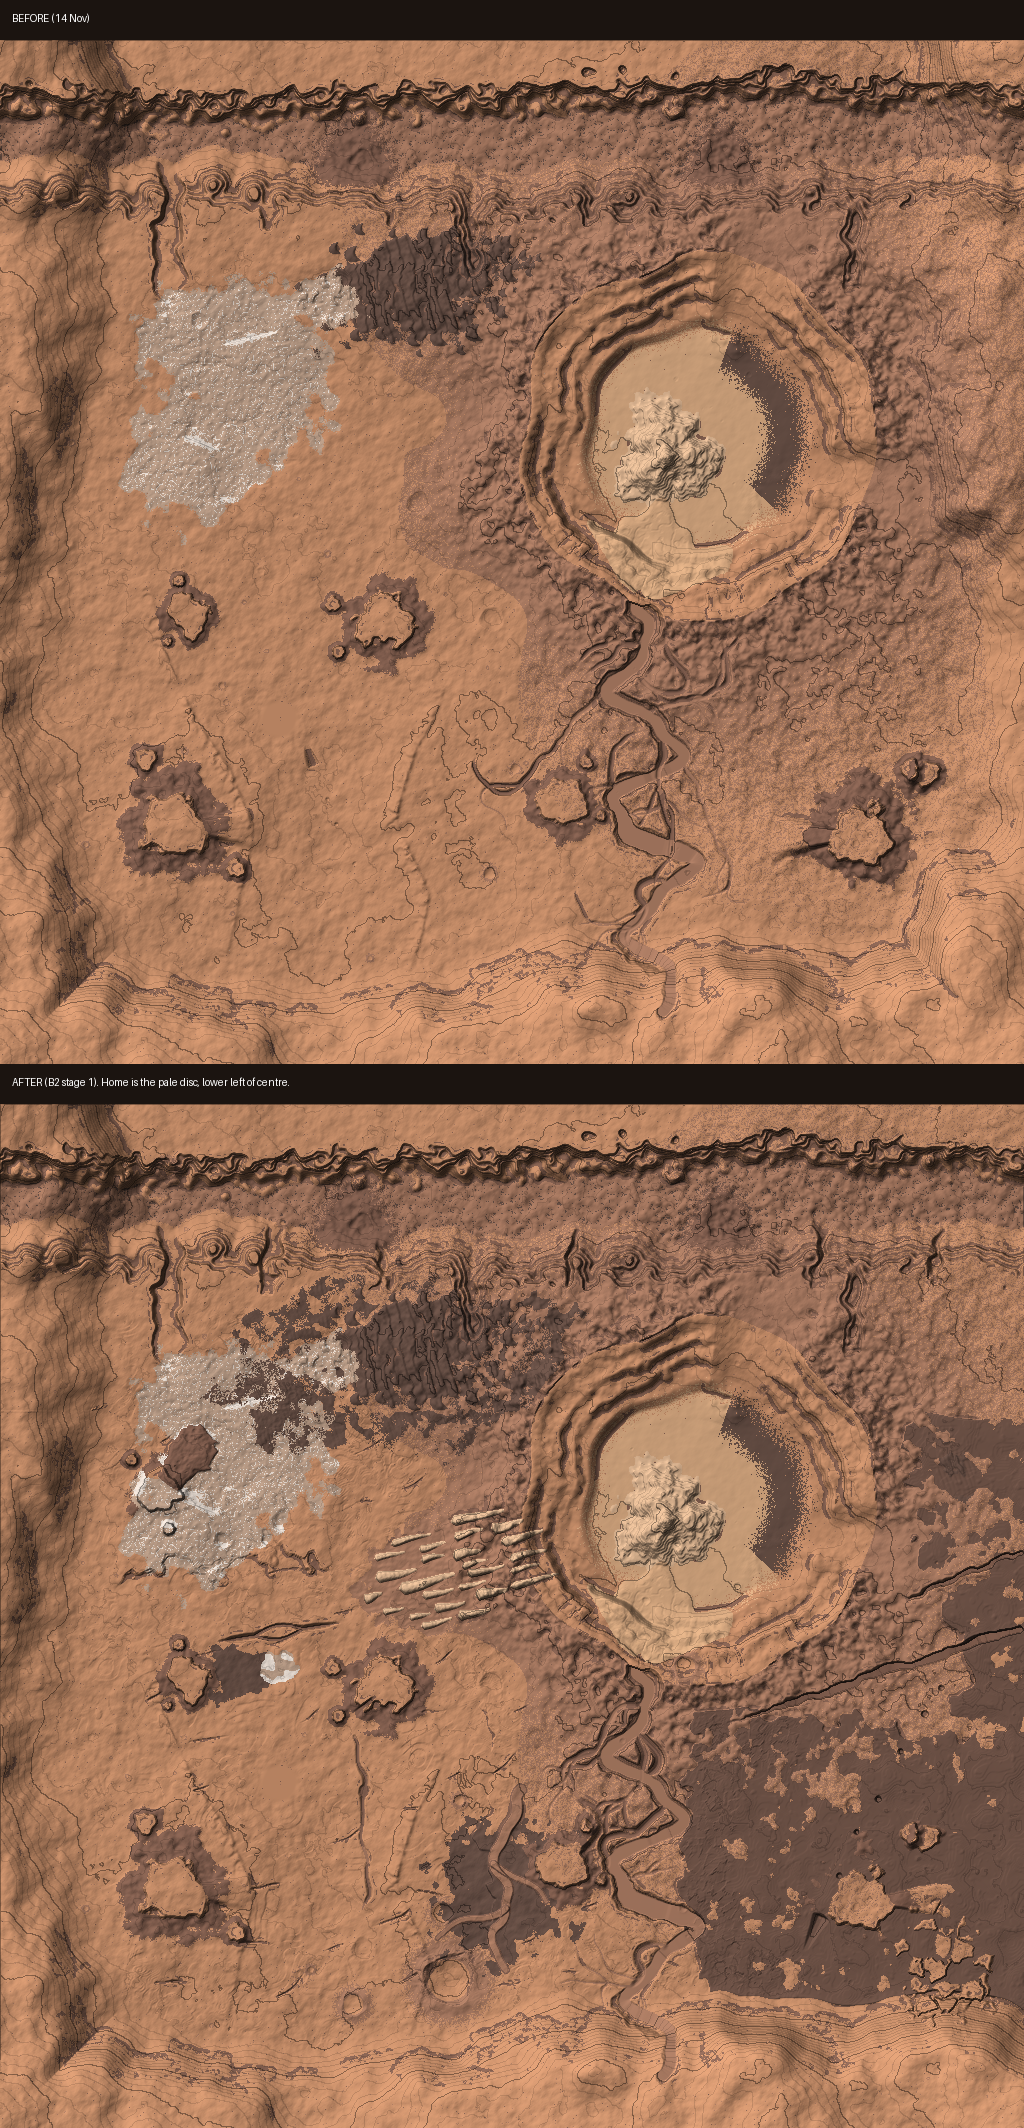
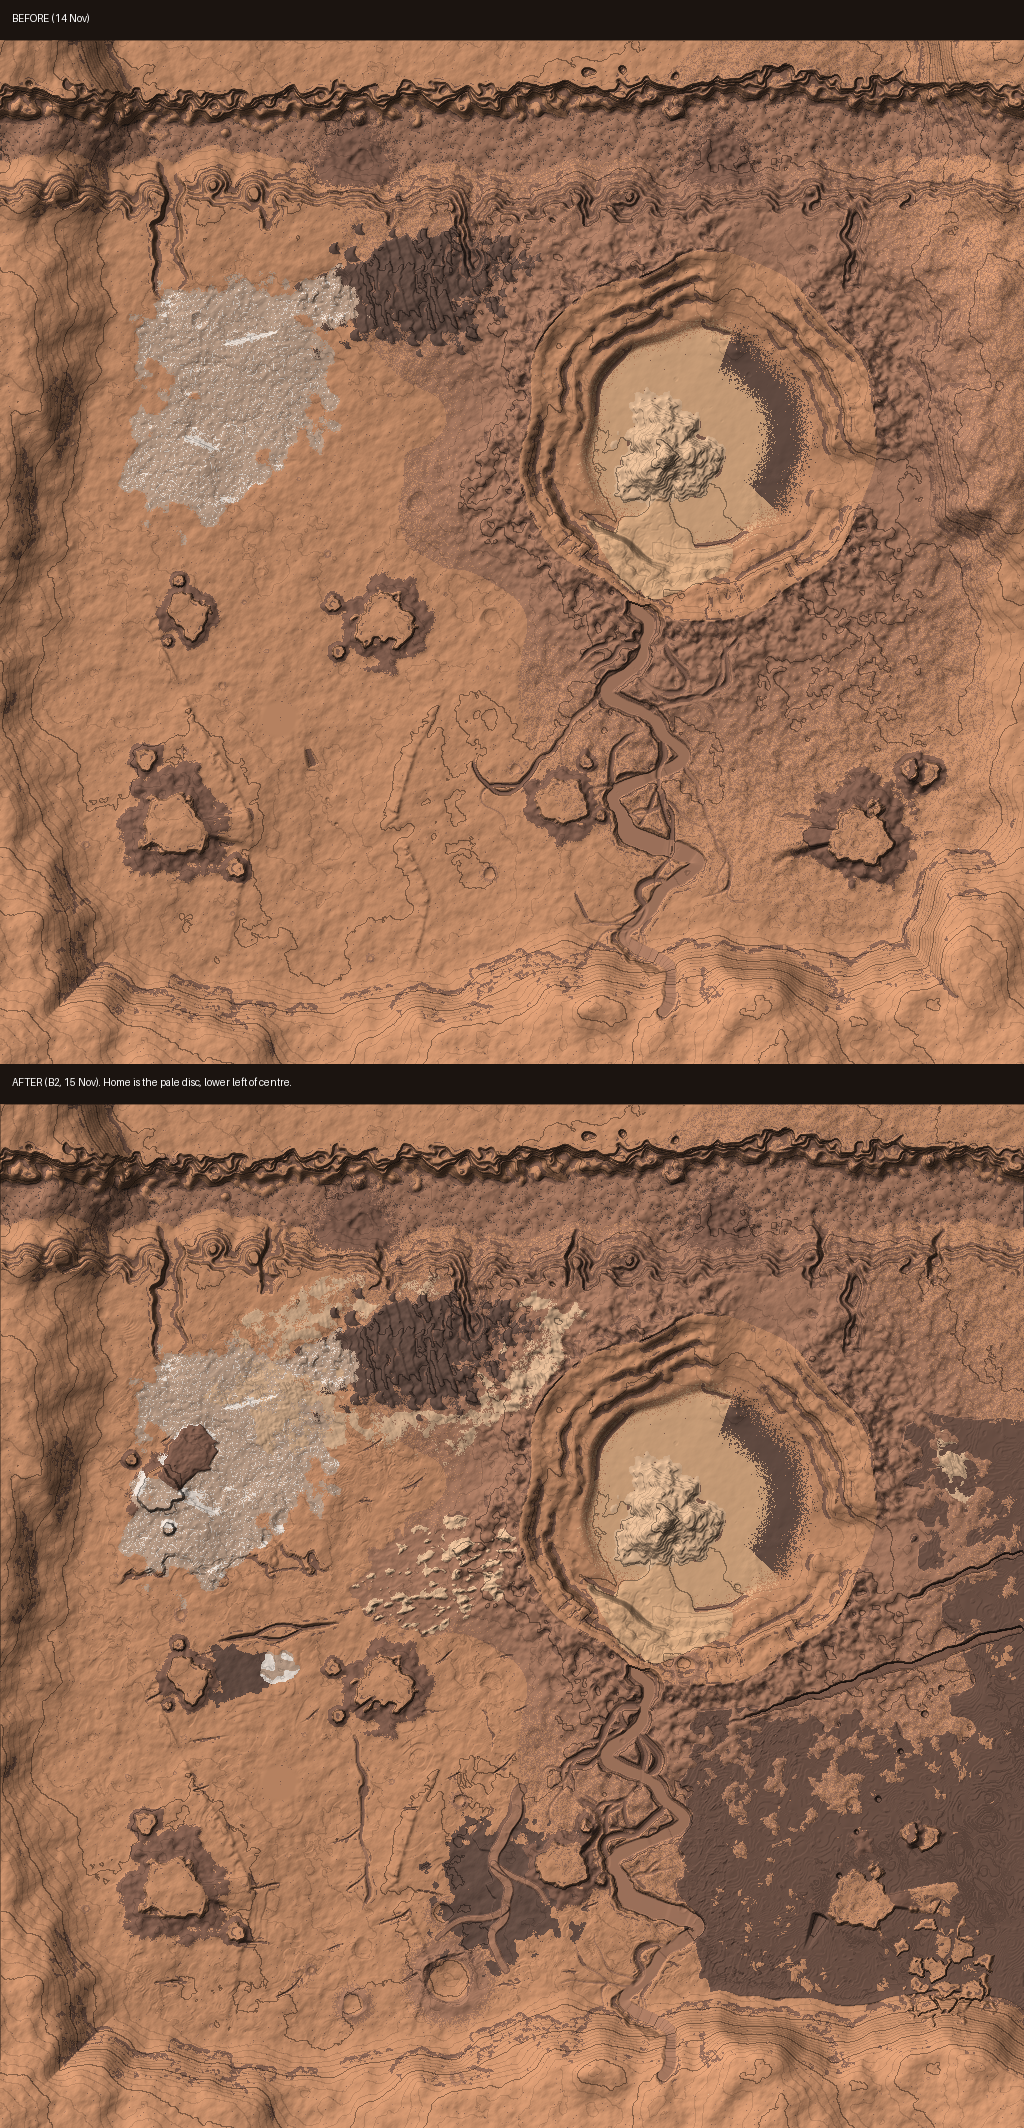
Build plan B2: written up (docs/terrain-design.md §11: what was built, what the checks say, where it differs from the plan); B2 marked built in the build plan; hirise_patch.py stands on its own.

diff --git a/tools/hirise_patch.py b/tools/hirise_patch.py
@@ -25,8 +25,6 @@ def read_dtm(path):
     a[a < -1e30] = np.nan
     return a
 
-sys.path.insert(0, __file__.rsplit('\\', 1)[0].rsplit('/', 1)[0])
-from dtm_read import read_dtm
 
 
 def blur(a, r):

diff --git a/docs/terrain-design.md b/docs/terrain-design.md
@@ -355,3 +355,67 @@ Everything else in the overhaul (the geology at three scales, textures from the 
   - picking placed kit up again;
   - GAR-Y's ground scan, viewpoints and the contour Map.
 - **C1 (laying out the range ladder):** the wrecks, the walkers, the deposits and the goal trails, placed using this doc's map. The walker spots here are only suggestions.
+
+## 11. As built (B2, 14–15 Nov)
+
+B2 reshaped the region in three commits (`eaf75d7`, `0a317b6`, `3b32c78`). All of §3 to §8 is in the land. The old map is kept in `docs/terrain/before-b2/` (with `old-vs-new.png`). Not playtested yet.
+
+### What's there
+- **Home and the rings** are in `region.json` (`home`, `rings`).
+- **The east:**
+  - the young lava plain, with the east mesa standing out of it as an island;
+  - the platy belt along its west edge, with three safe lines (`platy_lanes`);
+  - the lava tube, 1.7 km long, its floor about 40 m down, with six skylights and hollow ground along it;
+  - two fissures; the main one is up to 52 m wide and 90 m deep, with one bridge crossing;
+  - chaos blocks;
+  - a ripple belt.
+- **The deep:** past the tube's upstream end the passage goes on for 856 m, down three steep pitches (26, 30 and 26 m) to a lower level and the heart's chamber, about 155 m under the land. The pitches are about 70° slopes, not sheer drops: a swept cave mesh can't go straight down. They need ropes (B3).
+- **Ring 2:**
+  - the yardang maze, **made from a real HiRISE elevation model** (see below);
+  - the raised riverbeds over a sand sheet;
+  - the buried glacier with open and roofed pits;
+  - a fresh crater with rays;
+  - the far mesa's 58 m cliff;
+  - a ripple belt round the dune sea.
+- **Ring 1:**
+  - the frost hollow;
+  - the dry channel with two low crossings;
+  - a sand sheet;
+  - a scree gully up the near mesa;
+  - the three kit places (`kit_places`): the ledge-topped outcrop, the collapse pit and the cracked sliver.
+- **No straight lines:** two step lines with passes (`step_lines`), ledges 1–4 m high, 34 small cracks and boulder clusters.
+- **The canyon:** five more ways out on foot, about every 600–750 m.
+- **`ground.png`:** the ground kind, the hidden layer (hollow ground and roofed sinkholes) and shallow ice, ready for `scripts/ground.gd` in B3.
+- **Looks:**
+  - two new ground textures (young lava, pale ripple sand);
+  - darker lava sheets with pale dust in their hollows;
+  - dust devil tracks;
+  - layer bands on the yardangs, chaos blocks, fissure walls and step fronts.
+
+### What the generator's checks say (`region.json` `checks`)
+- **Straight lines from home:** a choice about every 209 m in ring 1, 149 m in ring 2 and 146 m in ring 3. The targets were 150–300 m and 50–150 m, so rings 2 and 3 are at the sparse end.
+- **On foot:** all walkable ground is reached from home, including the whole canyon floor. This check works at 10 m, so it can't see a pit smaller than that.
+- **The canyon floor by rover:** only by the ramp.
+- **Rover routes:** all 27 drivable.
+
+### Where it differs from the plan above
+- **The three landing pads are still there.** The game and its tests still use the crater-floor and riverbed sites. They go when the landing is reworked.
+- **Places moved to fit:**
+  - the heart is at (2895, 225);
+  - the main fissure runs from (1290, 640) to (3040, 70), south-east of the crater, not through it;
+  - the raised riverbeds are at about x −100 to 50, west of the far mesa;
+  - the chaos blocks are at (2560, 2100);
+  - the buried glacier's mesa is at (−2120, −760).
+- **"Sink the ground only near the surface" (§10) can't be done.** Terrain3D's ground is one sheet, so a passage that left the sunk strip would have to pass through it. The ground is sunk under the whole tube and the deep, with the copy laid over the top, as before. It works, and the world still loads in about 15 s.
+- **The fissures are not a hard gate for the far north-east.** A rover can also get there through the crater's east breach. The bridge is a short cut. If the heart's ground should be gated, close that breach in C1.
+- **The collapse pit near home is sheer on every side,** so it's the one place that breaks "nothing traps you" if you jump in without a rope. It has a rubble lip so you can't walk in by accident, and it's flagged `rope_only` for the game to handle (GAR-Y's rescue).
+- **The step lines are gentle.** The north scarp is 18 m in two ledges and the east front is 11 m. They may need to be taller after a playtest.
+- **Only the yardangs use real elevation data so far.** The fissure, raised-riverbed and other models (§10, source data) are 200–350 MB each and are left for a later pass.
+
+### Real data
+- **Yardangs:** `assets/terrain/patches/yardangs_arabia.npz`, cut by `tools/hirise_patch.py` from HiRISE DTM DTEED_061610_1895_061887_1895_A01 (Arabia Terra, 2 m a point; NASA/JPL-Caltech/UArizona/USGS). The plain under the ridges is taken off. The patch is turned to our wind, shrunk to 55 %, stood 1.5 times taller and mirror-tiled, so it makes a maze up to 43 m tall.
+- The raw download (51 MB) is in `.claude_tmp/dtm/`, which isn't committed.
+
+### Tools
+- `python tools/generate_region.py [--quick] [--debug-routes]`: about 2.5 minutes (it was 2). `--debug-routes` writes pictures of where a rover and a walker can go to `.claude_tmp/`.
+- `tools/terrain_views.gd`: screenshots of the new places; the tube's and the deep's views are worked out from `region.json`.

diff --git a/docs/build-plan-2026-11-14.md b/docs/build-plan-2026-11-14.md
@@ -168,7 +168,9 @@ A new doc, taking over from `docs/terrain-overhaul.md` where they disagree. It c
 
 **Explain this one to the user before building it.**
 
-### B2. Reshape the region
+### B2. Reshape the region · Built 15 Nov, not playtested
+See `docs/terrain-design.md` §11 for what was built, what the checks say and where it differs from the plan. The old map is in `docs/terrain/before-b2/`.
+
 - `tools/generate_region.py`, the caves, the lava tube and its skylights, plus a first pass on the deep.
 
 ### B3. Traversal phases 2 to 5 (`docs/traversal.md`)
